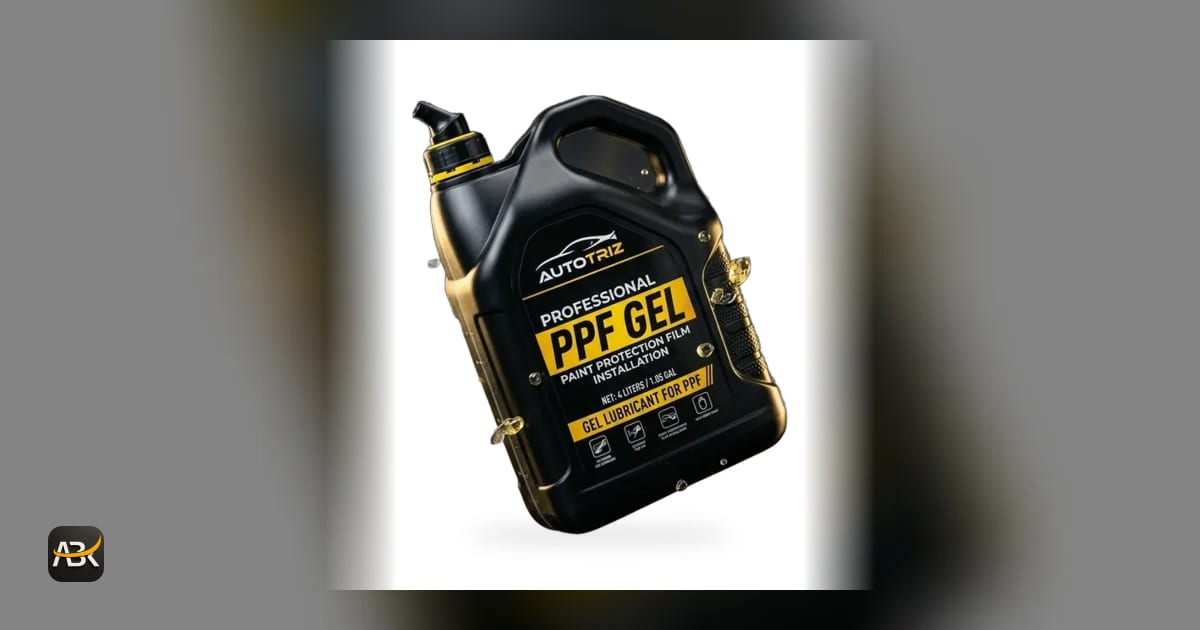
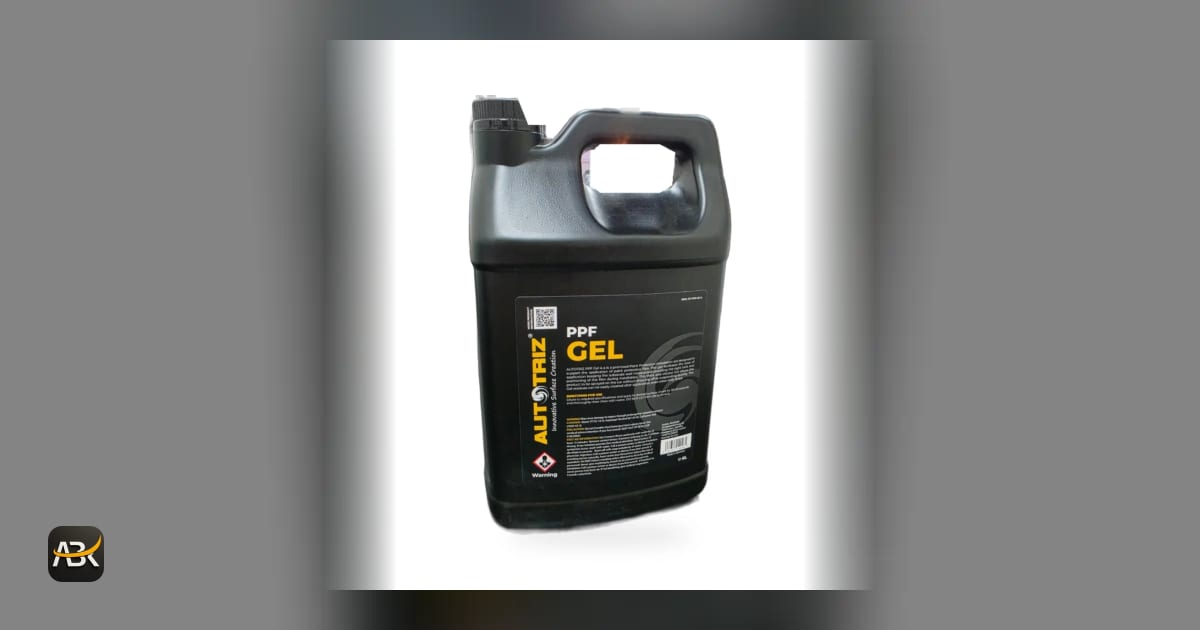
feat(products): update autotriz ppf gel with real 4L and 20L packshots and specifications

diff --git a/src/data/products.ts b/src/data/products.ts
@@ -621,26 +621,29 @@ export const PRODUCTS: Product[] = [
     brand: "Autotriz",
     category: "ppf",
     name: {
-      en: "Autotriz PPF Gel — Installation Aid",
-      ar: "Autotriz PPF Gel — مساعد تركيب فيلم الحماية",
+      en: "Autotriz PPF Gel — Installation Aid (4L & 20L)",
+      ar: "Autotriz PPF Gel — مساعد تركيب أفلام الحماية والتظليل (٤ لتر و ٢٠ لتر)",
     },
     shortDesc: {
-      en: "Premixed paint protection film installation aid. Thick, viscous gel — no dripping, easy residue cleanup.",
-      ar: "جل جاهز لتركيب فيلم حماية الطلاء. كثيف ولزج — لا يقطر، وسهل التنظيف بعد الجفاف.",
+      en: "Professional PPF & window tint installation gel in 4L and 20L sizes. 1:1 dilution ratio, thick viscous formula — prevents dripping, leaves zero residue. Made in Germany.",
+      ar: "جل احترافي لتركيب أفلام حماية الطلاء والتظليل بحجمين ٤ لتر و ٢٠ لتر. تخفيف ١:١، تركيبة كثيفة تمنع التقطير وسهلة التنظيف. صُنع في ألمانيا.",
     },
     longDesc: {
-      en: "AUTOTRIZ PPF Gel is a premixed Paint Protection installation aid designed to support the application of paint protection film. The gel facilitates the ease of application keeping the substrate well moisturized providing the right tack and positioning of the film during installation. This thick and viscous Gel allows the product to be sprayed on the car without dripping off or evaporating quickly. The Gel residues can be easily cleaned after application, even when fully dried.",
-      ar: "جل AUTOTRIZ PPF مساعد تركيب مُجهّز مسبقاً لدعم تطبيق فيلم حماية الطلاء. يُسهّل التطبيق بالحفاظ على رطوبة السطح ويوفر الالتصاق والوضعية الصحيحة للفيلم أثناء التركيب. هذا الجل الكثيف واللزج يُرشّ على السيارة دون تقطير أو تبخر سريع. يمكن تنظيف بقاياه بسهولة حتى بعد الجفاف الكامل.",
+      en: "AUTOTRIZ PPF Gel is a premium German-engineered installation aid designed for both paint protection film (PPF) and window tint applications. Available in 4 L (bottle) and 20 L (bulk drum) sizes. Engineered for a 1:1 dilution ratio with water, its thick viscous consistency allows smooth spraying without dripping off or evaporating quickly, ensuring optimal slip, tack, and precise film positioning. Easily cleans off with water with zero residue, even when fully dried.\n\nKey Highlights:\n• Sizes Available: 4 L bottle & 20 L bulk drum\n• Dilution: 1:1 with water\n• Dual Application: Suitable for both window tints & PPF installation\n• Origin: Made in Germany",
+      ar: "جل AUTOTRIZ PPF مساعد تركيب ألماني متطور مخصص لتطبيقات أفلام حماية الطلاء (PPF) وتظليل النوافذ. متوفر بعبوة ٤ لتر وبرميل ٢٠ لتر لورش العمل ومراكز العناية. يُخفف بنسبة ١:١ مع الماء، وتمنحه تركيبته اللزجة الكثيفة ثباتاً على السطح دون تقطير أو جفاف سريع، مما يتيح انزلاقاً وتحكماً دقيقاً أثناء التثبيت مع تنظيف سهل وخالٍ من الرواسب.\n\nأبرز المواصفات:\n• الأحجام المتوفرة: عبوة ٤ لتر وبرميل ٢٠ لتر\n• نسبة التخفيف: ١:١ مع الماء\n• الاستخدام: مناسب لأفلام حماية الطلاء وتظليل النوافذ\n• المنشأ: صُنع في ألمانيا",
     },
-    images: ["/products/autotriz/autotriz-ppf-gel-4l.webp"],
+    images: [
+      "/products/autotriz/autotriz-ppf-gel-4l.webp",
+      "/products/autotriz/autotriz-ppf-gel-20l.webp",
+    ],
     specs: [
-      { label: { en: "Size", ar: "الحجم" }, value: { en: "20 L · 4 L", ar: "٢٠ لتر · ٤ لتر" } },
-      { label: { en: "Dilution", ar: "نسبة التخفيف" }, value: { en: "1:1", ar: "١:١" } },
-      { label: { en: "Use", ar: "الاستخدام" }, value: { en: "Window tints & PPF application", ar: "تركيب التظليل وأفلام الحماية" } },
-      { label: { en: "Origin", ar: "المنشأ" }, value: { en: "Made in Germany", ar: "صُنع في ألمانيا" } },
+      { label: { en: "Sizes", ar: "الأحجام" }, value: { en: "4 L (Bottle) · 20 L (Drum)", ar: "٤ لتر (عبوة) · ٢٠ لتر (برميل)" } },
+      { label: { en: "Dilution", ar: "نسبة التخفيف" }, value: { en: "1:1 with water", ar: "١:١ مع الماء" } },
+      { label: { en: "Application", ar: "الاستخدام" }, value: { en: "Suitable for tints & PPF application", ar: "مناسب لتركيب التظليل وأفلام الحماية" } },
+      { label: { en: "Origin", ar: "بلد المنشأ" }, value: { en: "Made in Germany", ar: "صُنع في ألمانيا" } },
     ],
     audience: "both",
-    updatedAt: "2026-08-30",
+    updatedAt: "2026-09-01",
   },
   {
     slug: "autotriz-one-step-finish",
